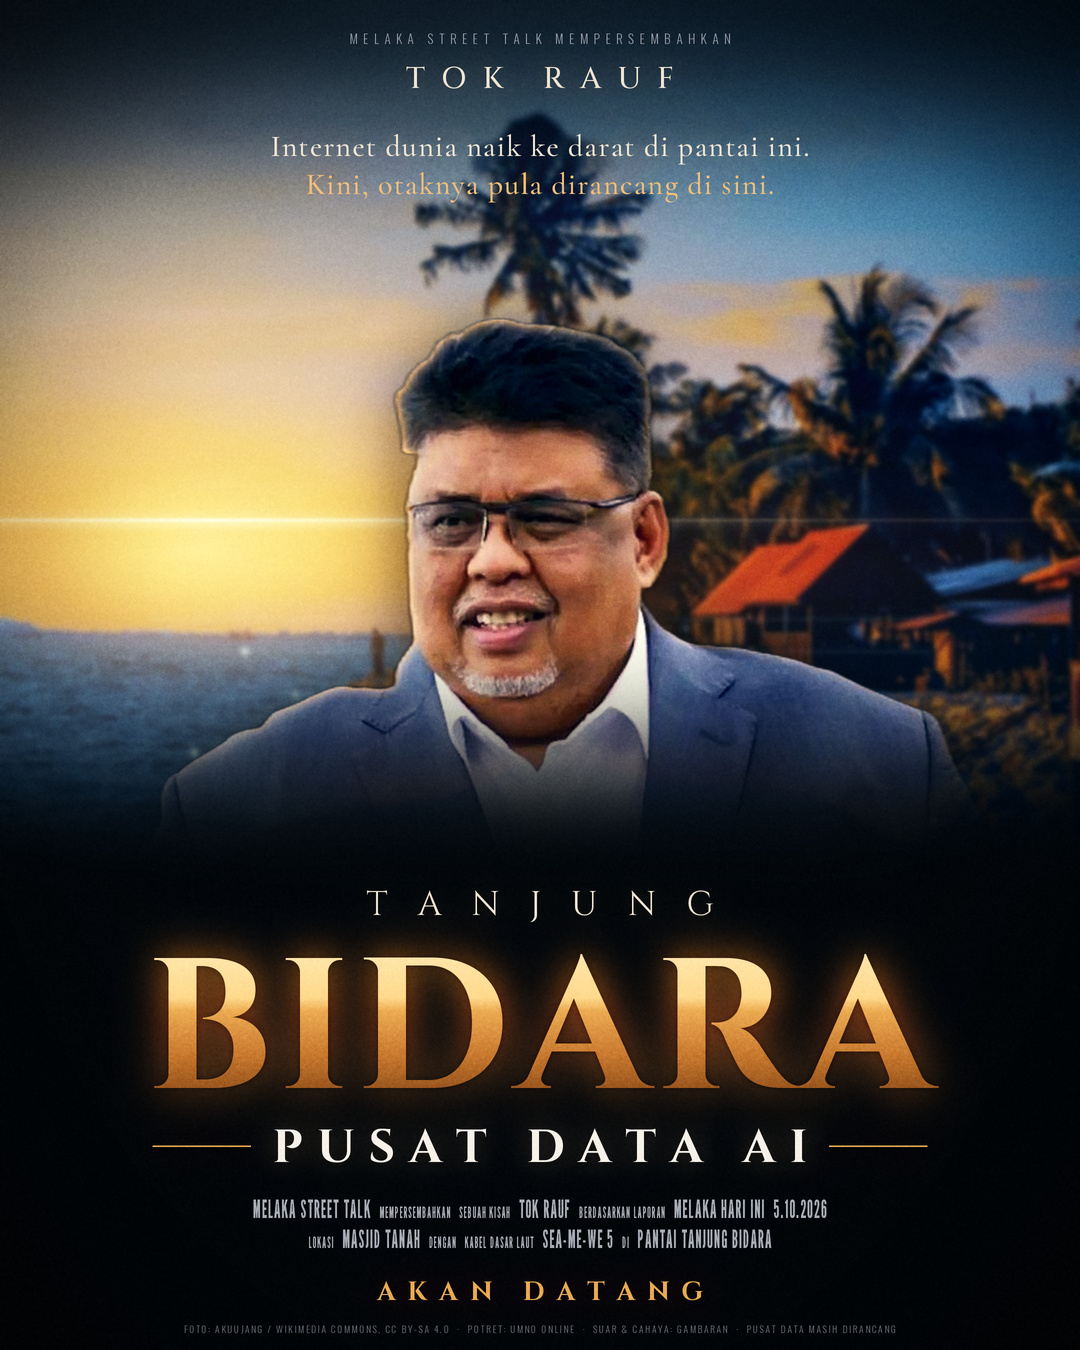
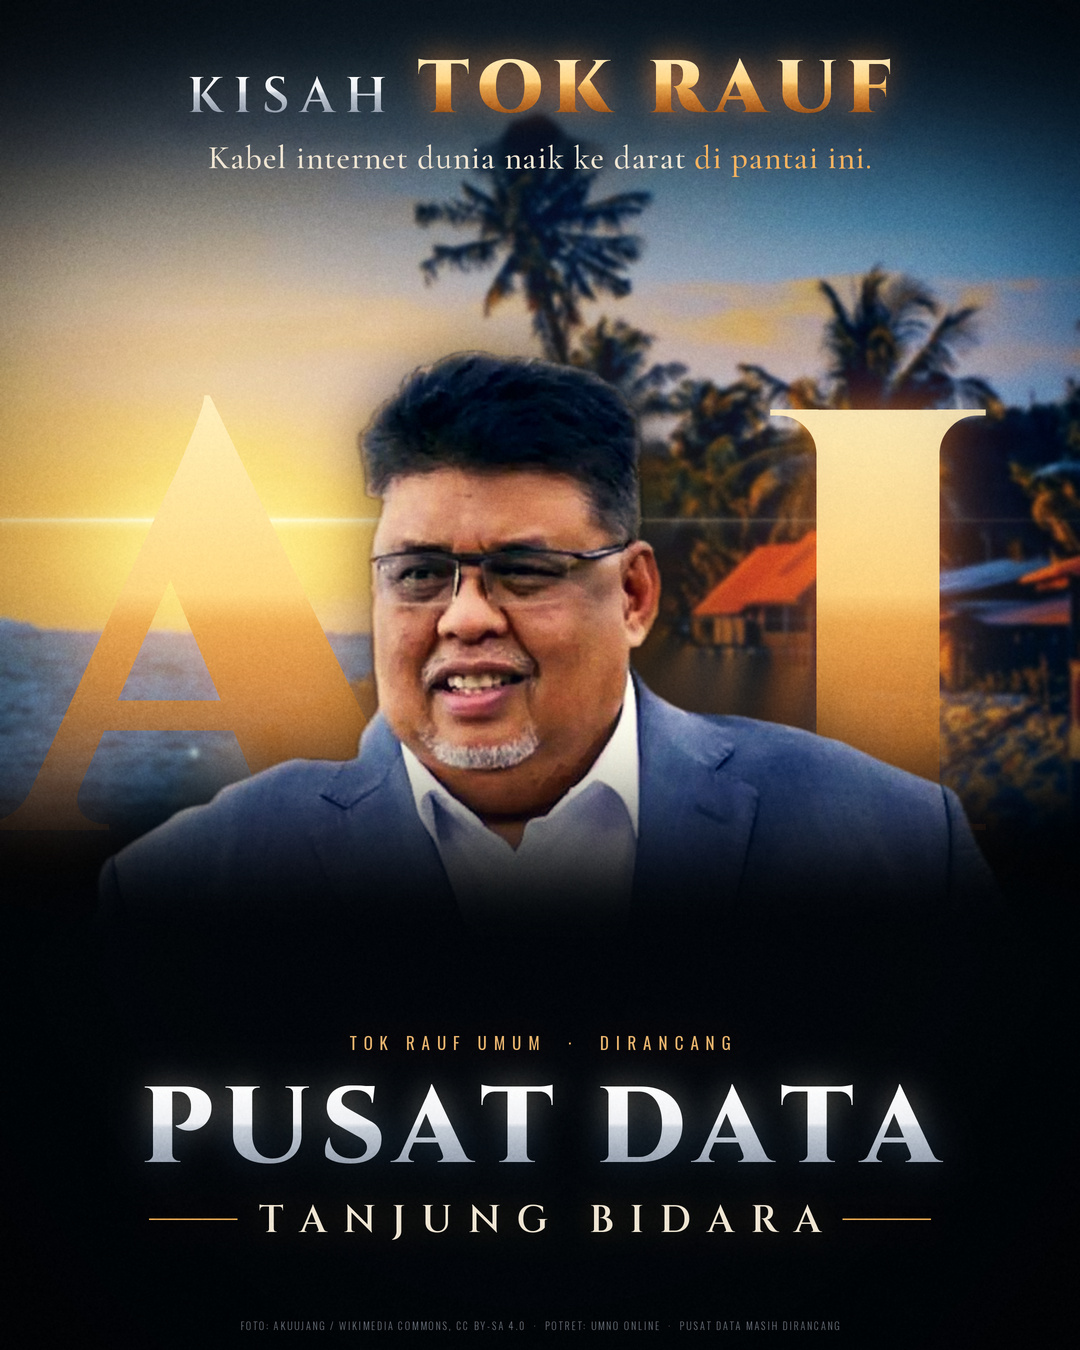
Poster Pusat Data AI: susun semula, wording asal sahaja
Buang ayat tambahan, Melaka Street Talk, billing block dan 'Akan Datang'.
KISAH TOK RAUF dibesarkan dan diserlahkan (TOK RAUF emas). Huruf AI
gergasi emas mengapit subjek; PUSAT DATA / TANJUNG BIDARA di bawah.

Claude-Session: https://claude.ai/code/session_01GNQaWVSY3HA5mc3imkBFXc

diff --git a/poster/tok-rauf/build_movie_poster.py b/poster/tok-rauf/build_movie_poster.py
@@ -18,7 +18,7 @@ W, H, S = 1080, 1350, 2  # kanvas asas, dirender pada skala S
 
 # Subjek: fail, skala, kedudukan kiri-atas pada kanvas asas, dan julat
 # pudar (y mula, y tamat) ke gelap di bawah.
-SUBJECT = dict(file="subjek.png", scale=1.10, pos=(-56, 240), fade=(690, 900))
+SUBJECT = dict(file="subjek.png", scale=1.22, pos=(-143, 262), fade=(780, 965))
 
 GOLD_TOP = (255, 236, 190)
 GOLD_MID = (232, 170, 82)
@@ -127,7 +127,8 @@ def subject_layer():
     yy = np.arange(H * S, dtype=np.float32)[:, None] / S
     f0, f1 = SUBJECT["fade"]
     a = a * (1 - smoothstep(f0, f1, yy))
-    a = cv2.erode(a, np.ones((3, 3), np.uint8))  # buang halo tepi
+    a = cv2.erode(a, np.ones((4 * S, 4 * S), np.uint8))  # buang halo tepi
+    a = cv2.GaussianBlur(a, (0, 0), 0.8 * S)
     return rgb, a
 
 
@@ -158,12 +159,18 @@ def main():
         np.exp(-np.abs(xx - sun[0]) / 300)
     bg = screen(bg, streak[..., None] * 0.8, np.array([1.0, 0.85, 0.65], np.float32))
 
+    # latar di bawah ufuk batu ditutup sepenuhnya (buang sisa teks lama)
+    bg = bg * (1 - smoothstep(760, 880, yy))[..., None]
+
+    # huruf AI gergasi di langit, di belakang subjek
+    bg = giant_ai(bg)
+
     # subjek dengan cahaya pinggir (rim light) hangat dari arah matahari
     srgb, sa = subject_layer()
     srgb = grade(srgb)
     edge = np.clip(sa - cv2.GaussianBlur(sa, (0, 0), 6 * S), 0, 1)
     side = 1 - smoothstep(380, 760, xx)  # sisi kiri lebih terang
-    rim = (edge * (0.35 + 0.65 * side) * 2.2)[..., None]
+    rim = (edge * (0.25 + 0.75 * side) * 1.4)[..., None]
     srgb = screen(srgb, np.clip(rim, 0, 1), np.array([1.0, 0.7, 0.35], np.float32))
     # bayang lembut di belakang subjek supaya tidak "terpampang"
     shadow = cv2.GaussianBlur(sa, (0, 0), 28 * S)[..., None]
@@ -171,8 +178,8 @@ def main():
     img = img * (1 - sa[..., None]) + srgb * sa[..., None]
 
     # gelap di atas (ruang tagline) dan bawah (ruang judul)
-    top = (1 - smoothstep(0, 260, yy)) * 0.78
-    bot = smoothstep(620, 900, yy)
+    top = (1 - smoothstep(0, 300, yy)) * 0.85
+    bot = smoothstep(700, 975, yy)
     dark = np.array([0.015, 0.03, 0.045], np.float32)
     img = img * (1 - top[..., None]) + dark * top[..., None]
     img = img * (1 - bot[..., None]) + dark * bot[..., None]
@@ -202,90 +209,88 @@ def main():
 
 # ---------------------------------------------------------------- tipografi
 
+def metal(base, items, y0, y1, stops, glow_col=None, glow_r=0, glow_k=0.0,
+          opacity=1.0, fade=None):
+    """Isi teks dengan kecerunan logam menegak + glow. Pulangkan base baharu."""
+    size = (base.shape[1], base.shape[0])
+    m = text_mask(size, items)
+    a = np.asarray(m, np.float32)[..., None] / 255 * opacity
+    if fade is not None:  # pudar bahagian bawah huruf ke dalam kabus
+        yy = np.arange(base.shape[0], dtype=np.float32)[:, None, None] / S
+        a = a * (1 - smoothstep(fade[0], fade[1], yy) * fade[2])
+    grad = vgrad(int((y1 - y0) * S), stops) / 255
+    col = np.empty_like(base)
+    i0 = int(y0 * S)
+    col[:i0] = grad[0]
+    col[i0:i0 + len(grad)] = grad[:, None, :]
+    col[i0 + len(grad):] = grad[-1]
+    if glow_col is not None:
+        ga, gc = glow(m, glow_r, glow_col, glow_k)
+        base = screen(base, ga, gc)
+    return base * (1 - a) + col * a
+
+
+GOLD = [(0, GOLD_TOP), (0.45, (255, 210, 130)), (0.52, GOLD_MID),
+        (0.8, (190, 112, 40)), (1, GOLD_LOW)]
+SILVER = [(0, (255, 255, 255)), (0.5, (236, 238, 242)), (0.56, (196, 204, 214)),
+          (1, (150, 160, 175))]
+
+
+def giant_ai(img):
+    """Huruf 'AI' gergasi di belakang subjek."""
+    f = font("Cinzel[wght].ttf", 600, 900)
+    base = img
+    return metal(base, [((215, 830), "A", f, 0), ((878, 830), "I", f, 0)], 400, 830, GOLD,
+                 (255, 120, 30), 40, 0.6, opacity=0.95, fade=(640, 900, 0.9))
+
+
 def typography(canvas):
-    size = canvas.size
     base = np.asarray(canvas, np.float32) / 255
-    small = font("Oswald[wght].ttf", 13, 300)
-    star = font("Cinzel[wght].ttf", 30, 500)
-    tag = font("CormorantGaramond[wght].ttf", 30, 500)
 
-    # --- judul: TANJUNG / BIDARA / PUSAT DATA AI
-    title = font("Cinzel[wght].ttf", 186, 700)
-    over = font("Cinzel[wght].ttf", 34, 400)
-    sub = font("Cinzel[wght].ttf", 46, 700)
-
-    # judul emas: topeng -> kecerunan logam -> glow
-    t_mask = text_mask(size, [((540, 1088), "BIDARA", title, 6)])
-    a = np.asarray(t_mask, np.float32)[..., None] / 255
-    g_top, g_bot = 930, 1092
-    grad = vgrad(int((g_bot - g_top) * S), [(0, GOLD_TOP), (0.42, (255, 214, 140)),
-                                             (0.5, GOLD_MID), (0.78, (196, 120, 46)),
-                                             (1, GOLD_LOW)]) / 255
-    col = np.zeros_like(base)
-    col[:] = grad[0]
-    col[int(g_top * S):int(g_top * S) + len(grad)] = grad[:, None, :]
-    col[int(g_top * S) + len(grad):] = grad[-1]
-    ga, gc = glow(t_mask, 22, (255, 140, 40), 0.55)
-    base = screen(base, ga, gc)
-    sh_a = np.asarray(t_mask.filter(ImageFilter.GaussianBlur(3 * S)), np.float32)[..., None] / 255
-    base = base * (1 - 0.6 * sh_a)
-    base = base * (1 - a) + col * a
-
-    # teks lain dilukis terus
+    # judul utama
+    t1 = font("Cinzel[wght].ttf", 108, 800)
+    base = metal(base, [((540, 1162), "PUSAT DATA", t1, 8)], 1082, 1164, SILVER,
+                 (120, 170, 220), 18, 0.25)
+    # KISAH TOK RAUF: besar, TOK RAUF emas bercahaya
+    k1 = font("Cinzel[wght].ttf", 50, 600)
+    k2 = font("Cinzel[wght].ttf", 74, 900)
+    w1 = tracked_width("KISAH", k1, 10) / S
+    w2 = tracked_width("TOK RAUF", k2, 8) / S
+    gap = 30
+    x = 540 - (w1 + gap + w2) / 2
+    base = metal(base, [((x + w1 / 2, 112), "KISAH", k1, 10)], 70, 112, SILVER)
+    base = metal(base, [((x + w1 + gap + w2 / 2, 112), "TOK RAUF", k2, 8)], 56, 114, GOLD,
+                 (255, 130, 30), 16, 0.7)
     canvas = Image.fromarray((np.clip(base, 0, 1) * 255).astype(np.uint8))
     d = ImageDraw.Draw(canvas)
-    draw_tracked(d, (540, 915), "TANJUNG", over, CREAM + (255,), 30)
-    # PUSAT DATA AI dengan garis halus kiri & kanan
-    wsub = draw_tracked(d, (540, 1162), "PUSAT DATA AI", sub, (245, 240, 232), 14)
+
+    # atas: tagline (wording asal)
+    tag = font("CormorantGaramond[wght].ttf", 33, 500)
+    a = "Kabel internet dunia naik ke darat "
+    b = "di pantai ini."
+    wa = tracked_width(a, tag, 1.0) / S
+    wb = tracked_width(b, tag, 1.0) / S
+    x = 540 - (wa + wb) / 2
+    draw_tracked(d, (x, 168), a, tag, CREAM, 1.0, anchor="left")
+    draw_tracked(d, (x + wa, 168), b, tag, (244, 178, 96), 1.0, anchor="left")
+
+    # label kecil di atas judul
+    lab = font("Oswald[wght].ttf", 17, 400)
+    draw_tracked(d, (540, 1050), "TOK RAUF UMUM  ·  DIRANCANG", lab, (232, 180, 110), 7)
+
+    # TANJUNG BIDARA dengan garis emas
+    sub = font("Cinzel[wght].ttf", 38, 600)
+    wsub = draw_tracked(d, (540, 1232), "TANJUNG BIDARA", sub, CREAM, 16)
     for sgn in (-1, 1):
         x0 = 540 + sgn * (wsub / 2 + 22)
-        x1 = 540 + sgn * (wsub / 2 + 120)
-        d.line([(x0 * S, 1146 * S), (x1 * S, 1146 * S)], fill=GOLD_MID, width=int(1.5 * S))
+        x1 = 540 + sgn * (wsub / 2 + 110)
+        d.line([(x0 * S, 1219 * S), (x1 * S, 1219 * S)], fill=GOLD_MID, width=int(1.5 * S))
 
-    # --- atas: "mempersembahkan" + bil. bintang + tagline
-    draw_tracked(d, (540, 44), "MELAKA STREET TALK MEMPERSEMBAHKAN", small, GREY, 5.5)
-    draw_tracked(d, (540, 88), "TOK RAUF", star, CREAM, 16)
-
-    # tagline di ruang langit
-    draw_tracked(d, (540, 156), "Internet dunia naik ke darat di pantai ini.", tag, CREAM, 1.2)
-    draw_tracked(d, (540, 194), "Kini, otaknya pula dirancang di sini.", tag, (240, 190, 120), 1.2)
-
-    # --- blok kredit (billing block) gaya wayang: label kecil, nama besar
-    billing(d)
-
-    # --- tarikh tayangan
-    rel = font("Cinzel[wght].ttf", 26, 700)
-    draw_tracked(d, (540, 1300), "AKAN DATANG", rel, GOLD_MID, 12)
-
-    foot = font("Oswald[wght].ttf", 9.5, 300)
-    draw_tracked(d, (540, 1333),
+    foot = font("Oswald[wght].ttf", 10, 300)
+    draw_tracked(d, (540, 1330),
                  "FOTO: AKUUJANG / WIKIMEDIA COMMONS, CC BY-SA 4.0  ·  POTRET: UMNO ONLINE  ·  "
-                 "SUAR & CAHAYA: GAMBARAN  ·  PUSAT DATA MASIH DIRANCANG",
-                 foot, (110, 116, 126), 1.6)
+                 "PUSAT DATA MASIH DIRANCANG", foot, (105, 112, 122), 1.8)
     return canvas
-
-
-def billing(d):
-    """Blok kredit ala poster wayang: League Gothic sempit, campur saiz."""
-    lab = font("LeagueGothic[wdth].ttf", 15, 75)
-    big = font("LeagueGothic[wdth].ttf", 25, 75)
-    lines = [
-        [("MELAKA STREET TALK", big), ("MEMPERSEMBAHKAN", lab), ("SEBUAH KISAH", lab),
-         ("TOK RAUF", big), ("BERDASARKAN LAPORAN", lab), ("MELAKA HARI INI", big),
-         ("5.10.2026", big)],
-        [("LOKASI", lab), ("MASJID TANAH", big), ("DENGAN", lab), ("KABEL DASAR LAUT", lab),
-         ("SEA-ME-WE 5", big), ("DI", lab), ("PANTAI TANJUNG BIDARA", big)],
-    ]
-    col = (168, 172, 180)
-    for i, line in enumerate(lines):
-        y = 1218 + i * 30
-        gap = 9
-        widths = [tracked_width(t, f, 1.0) / S for t, f in line]
-        total = sum(widths) + gap * (len(line) - 1)
-        x = 540 - total / 2
-        for (t, f), wd in zip(line, widths):
-            draw_tracked(d, (x, y), t, f, col, 1.0, anchor="left")
-            x += wd + gap
 
 
 if __name__ == "__main__":
